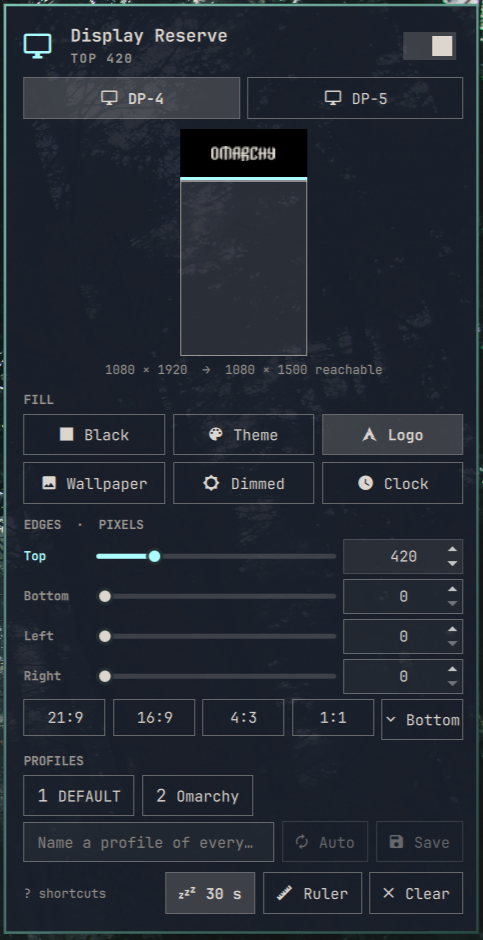
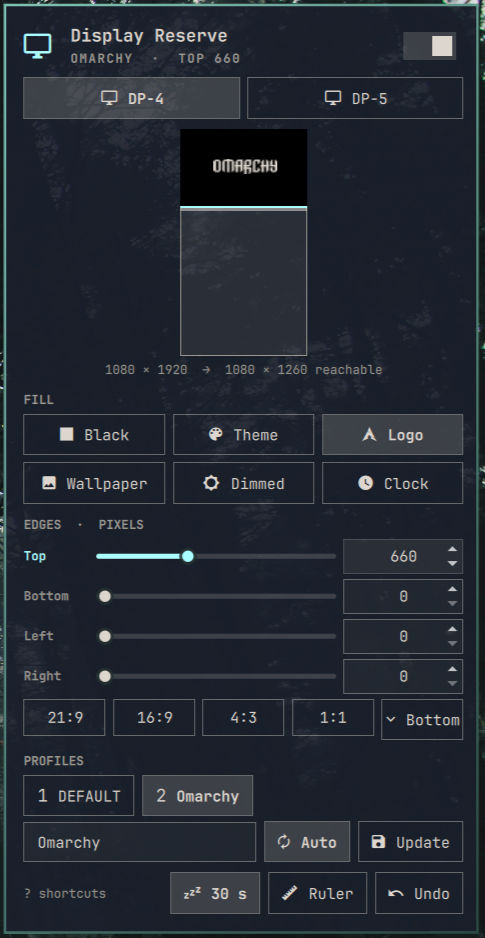
Release 1.5.0

diff --git a/README.md b/README.md
@@ -43,7 +43,7 @@ bar is on; use the monitor buttons (or Tab) to switch. Changes apply live.
 
 <p align="center">
   <img src="docs/panel.png" width="360"
-       alt="The Display Reserve panel for DP-4: a to-scale preview of a portrait monitor with the logo on its top edge, the six fill buttons with Logo selected, a slider and pixel field for each edge, the aspect presets, two saved profiles with a name field, Auto and Save, and the idle, ruler and clear buttons">
+       alt="The Display Reserve panel for DP-4: a to-scale preview of a portrait monitor with the logo on its top edge, the six fill buttons with Logo selected, a slider and pixel field for each edge, the aspect presets, two saved profiles with Omarchy applied and set to Auto, and the idle, ruler and undo buttons">
 </p>
 
 - **Preview**: the monitor drawn to scale, with the black edges, the
